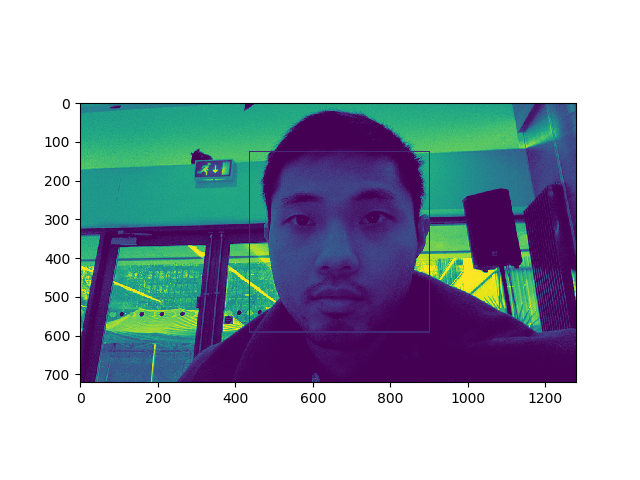
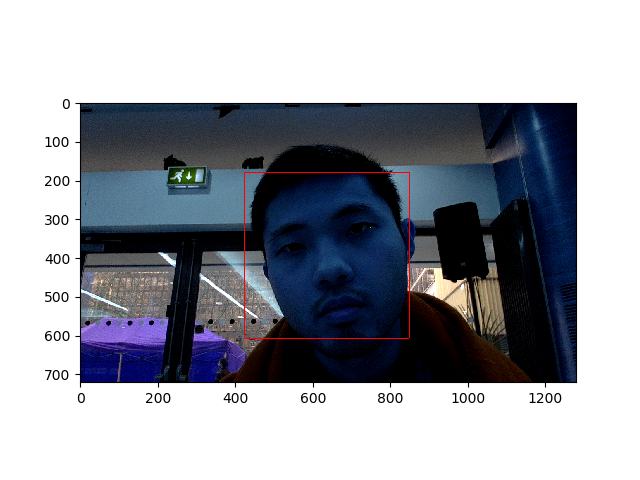
updated

diff --git a/feature-detection/main_extracting_all_features.py b/feature-detection/main_extracting_all_features.py
@@ -11,11 +11,10 @@ import argparse
 import imutils
 import dlib
 import detect_blinks as blinky
+from PIL import Image
 
 # Open image file
-f = open('image.png', 'r+')
-image = f.read()
-f.close()
+image = Image.open('image.png')
 
 # construct the argument parser and parse the arguments
 ap = argparse.ArgumentParser()

diff --git a/feature-detection/detect_blinks.py b/feature-detection/detect_blinks.py
@@ -118,8 +118,7 @@ def createLineIterator(P1, P2, img):
     	if image_high_cut_bin[x] == 1:
     		pupil_right = x
     		break
-
-    print(0, pupil_left, pupil_right, len(itbuffer[:,2]))
+            
     ratio = pupil_left/(len(itbuffer[:,2])-pupil_right)
 
     return itbuffer, ratio

diff --git a/feature-detection/example_st.py b/feature-detection/example_st.py
@@ -26,7 +26,7 @@ cv2.drawContours(image, leftEyeHull, -1, (0, 255, 0), 1)
 cv2.drawContours(image, rightEyeHull, -1, (0, 255, 0), 1)
 cv2.imshow("Image", image)
 
-plt.imshow(gray_image)
+plt.imshow(image)
 plt.show()
 
 
